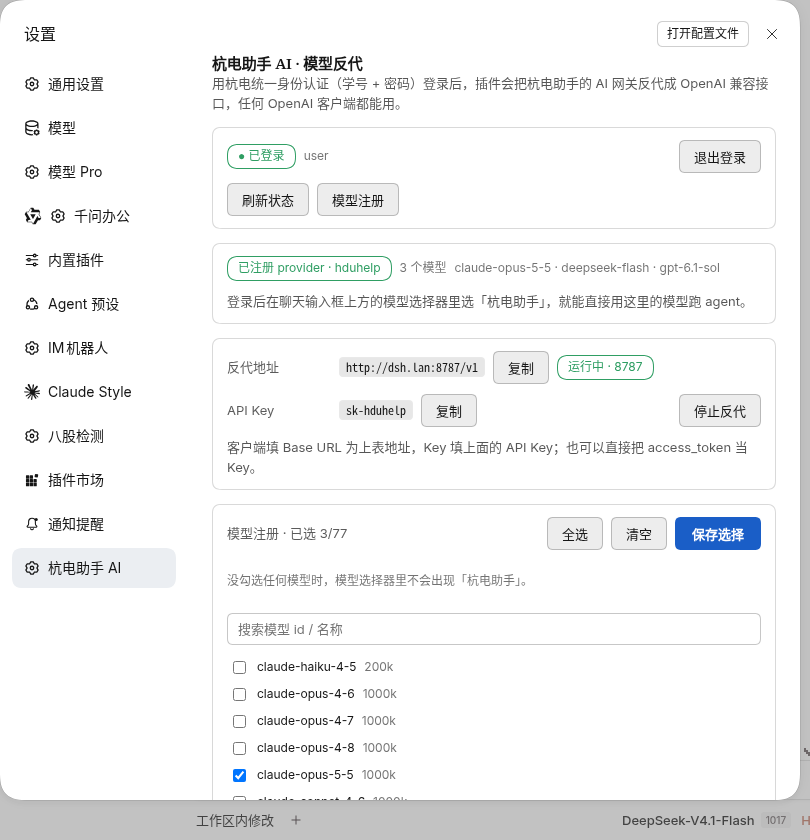
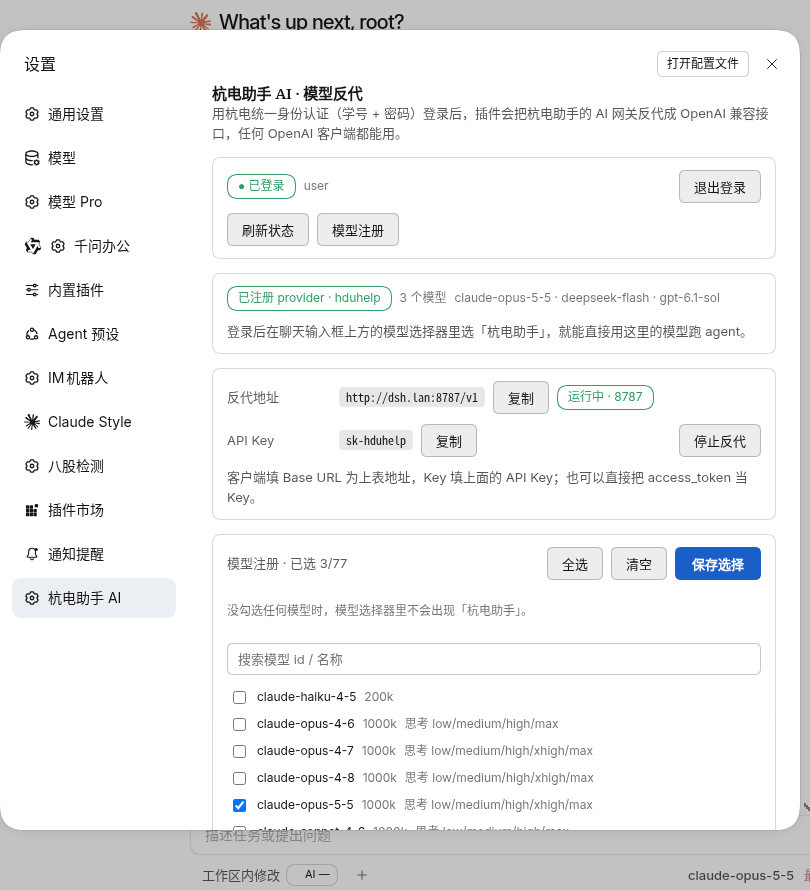
feat: 支持调节思考等级
- 解析上游 supported_reasoning_levels / default_reasoning_level
- resolveModel 暴露 reasoning.efforts，模型选择器出现推理等级滑杆
- 请求以 reasoning.effort 下发；OpenAI 反代支持 reasoning_effort
- 面板模型列表显示各模型支持的档位

diff --git a/lib/adapter.js b/lib/adapter.js
@@ -41,6 +41,20 @@ function classifyFailure(error, status) {
   return llmFailure(message, 'UNKNOWN', status ? { status } : {});
 }
 
+const EFFORT_NAMES = {
+  none: '关闭',
+  minimal: '最低',
+  low: '低',
+  medium: '中',
+  high: '高',
+  xhigh: '更高',
+  max: '最大',
+};
+
+function effortName(id) {
+  return EFFORT_NAMES[id] || id;
+}
+
 function pickFinish(status, incomplete, sawToolCall) {
   if (sawToolCall) return { kind: 'tool-calls' };
   if (status === 'incomplete') {
@@ -109,6 +123,13 @@ export class HduhelpAdapter {
   async resolveModel(provider, model) {
     const entry = this.catalog.find((m) => m.id === model);
     const contextWindow = Number(entry?.contextWindow) || this.defaultContext;
+    const levels = entry?.reasoningLevels || [];
+    const reasoning = levels.length
+      ? {
+          efforts: levels.map((id) => ({ id, name: effortName(id) })),
+          ...(entry?.defaultReasoning ? { defaultEffort: entry.defaultReasoning } : {}),
+        }
+      : undefined;
     return {
       provider,
       id: model,
@@ -116,6 +137,7 @@ export class HduhelpAdapter {
       inputModalities: entry?.vision ? ['text', 'image'] : ['text'],
       context: { contextWindow },
       defaultMaxTokens: Math.min(DEFAULT_MAX_TOKENS, contextWindow),
+      ...(reasoning ? { reasoning } : {}),
     };
   }
 
@@ -165,6 +187,10 @@ export class HduhelpAdapter {
             name: String(m.name || m.id || '').trim(),
             contextWindow: Number(m.context_window || m.context_length || m.contextWindow || 0) || 0,
             vision: VISION_HINTS.test(String(m.id || '')),
+            reasoningLevels: Array.isArray(m.supported_reasoning_levels)
+              ? m.supported_reasoning_levels.filter((x) => typeof x === 'string' && x)
+              : [],
+            defaultReasoning: typeof m.default_reasoning_level === 'string' ? m.default_reasoning_level : '',
           }))
           .filter((m) => m.id);
         if (!models.length) return;
@@ -282,6 +308,9 @@ export class HduhelpAdapter {
       const body = { model: options.model, input, stream: true };
       if (instructions) body.instructions = instructions;
       if (typeof options.temperature === 'number') body.temperature = options.temperature;
+    if (typeof options.reasoningEffort === 'string' && options.reasoningEffort) {
+      body.reasoning = { effort: options.reasoningEffort };
+    }
       if (typeof options.maxTokens === 'number' && options.maxTokens > 0) body.max_output_tokens = options.maxTokens;
       if (hasTools) {
         body.tools = options.tools.map((t) => ({

diff --git a/lib/proxy.js b/lib/proxy.js
@@ -131,6 +131,8 @@ export function createProxyServer({
     const body = { model: openai.model, input, stream: openai.stream === true };
     if (instructions) body.instructions = instructions;
     if (typeof openai.temperature === 'number') body.temperature = openai.temperature;
+    const effort = openai.reasoning_effort ?? openai.reasoningEffort;
+    if (typeof effort === 'string' && effort) body.reasoning = { effort };
     const maxTokens = openai.max_completion_tokens ?? openai.max_tokens;
     if (typeof maxTokens === 'number' && maxTokens > 0) body.max_output_tokens = maxTokens;
     if (Array.isArray(openai.tools) && openai.tools.length) {

diff --git a/lib/client.js b/lib/client.js
@@ -443,7 +443,10 @@
                       },
                     }),
                     h("span", { style: { fontSize: "12px" } }, m.id),
-                    m.contextWindow ? h("span", { style: S.hint }, Math.round(m.contextWindow / 1000) + "k") : null
+                    m.contextWindow ? h("span", { style: S.hint }, Math.round(m.contextWindow / 1000) + "k") : null,
+                    m.reasoningLevels && m.reasoningLevels.length
+                      ? h("span", { style: S.hint }, "思考 " + m.reasoningLevels.join("/"))
+                      : null
                   );
                 })
             )

diff --git a/lib/index.js b/lib/index.js
@@ -416,6 +416,8 @@ export function apply(ctx, config) {
             name: m.name,
             contextWindow: m.contextWindow,
             vision: m.vision === true,
+            reasoningLevels: m.reasoningLevels || [],
+            defaultReasoning: m.defaultReasoning || '',
             selected: state.selected.has(m.id),
           })),
         });

diff --git a/README.md b/README.md
@@ -33,34 +33,38 @@
   <tr>
     <td width="50%" valign="top">
       <strong>面板登录</strong><br>
-      设置里填学号和统一身份认证密码，走杭电 CAS 换 token。
+      设置里填学号和统一身份认证密码，走杭电 CAS 换 token，纯 HTTP 不需要浏览器；token 过期自动用 refresh_token 续期。
     </td>
     <td width="50%" valign="top">
       <strong>只注册你选的模型</strong><br>
-      上游目录有 77 个模型，插件只把勾选的那几个注册进 DSH 模型列表。
+      上游目录有 77 个模型，插件只把勾选的那几个注册进 DSH 模型列表，选择器保持干净。
     </td>
   </tr>
   <tr>
     <td width="50%" valign="top">
       <strong>原生多轮工具调用</strong><br>
-      走 Responses 协议的 <code>function_call</code> / <code>function_call_output</code>
+      走 Responses 协议的 <code>function_call</code> / <code>function_call_output</code>，思考—调用—观察的 ReAct 循环不降级。
     </td>
     <td width="50%" valign="top">
-      <strong>额度就在手边</strong><br>
-      输入框工具行、权限按钮右侧显示 5 小时 / 7 天两个窗口的用量；额度用尽时显示恢复倒计时。
+      <strong>可调思考等级</strong><br>
+      按上游 <code>supported_reasoning_levels</code> 暴露档位（低 / 中 / 高 / 更高 / 最大），在模型名旁边用滑杆切换，随请求以 <code>reasoning.effort</code> 下发。
     </td>
   </tr>
   <tr>
     <td width="50%" valign="top">
-      <strong>OpenAI 兼容反代</strong><br>
-      额外提供 <code>http://&lt;host&gt;:8787/v1</code>，chat/completions 自动翻译成 Responses，供 Cherry Studio / LobeChat / SDK 使用。
+      <strong>额度就在手边</strong><br>
+      输入框工具行、权限按钮右侧显示 5 小时 / 7 天两个窗口的用量；额度用尽时显示恢复倒计时。
     </td>
     <td width="50%" valign="top">
-      <strong>登录态自维护</strong><br>
-      token 过期用 refresh_token 自动续；刷新失败会在面板里留下可读的错误。
+      <strong>OpenAI 兼容反代</strong><br>
+      额外提供 <code>http://&lt;host&gt;:8787/v1</code>，chat/completions 自动翻译成 Responses（含 <code>reasoning_effort</code>），供 Cherry Studio / LobeChat / SDK 使用。
     </td>
   </tr>
 </table>
+
+<p align="center">
+  <img src="docs/screenshot-effort.png" width="300" alt="推理等级">
+</p>
 
 <p align="center">
   <img src="docs/screenshot-quota.png" width="420" alt="额度胶囊">
